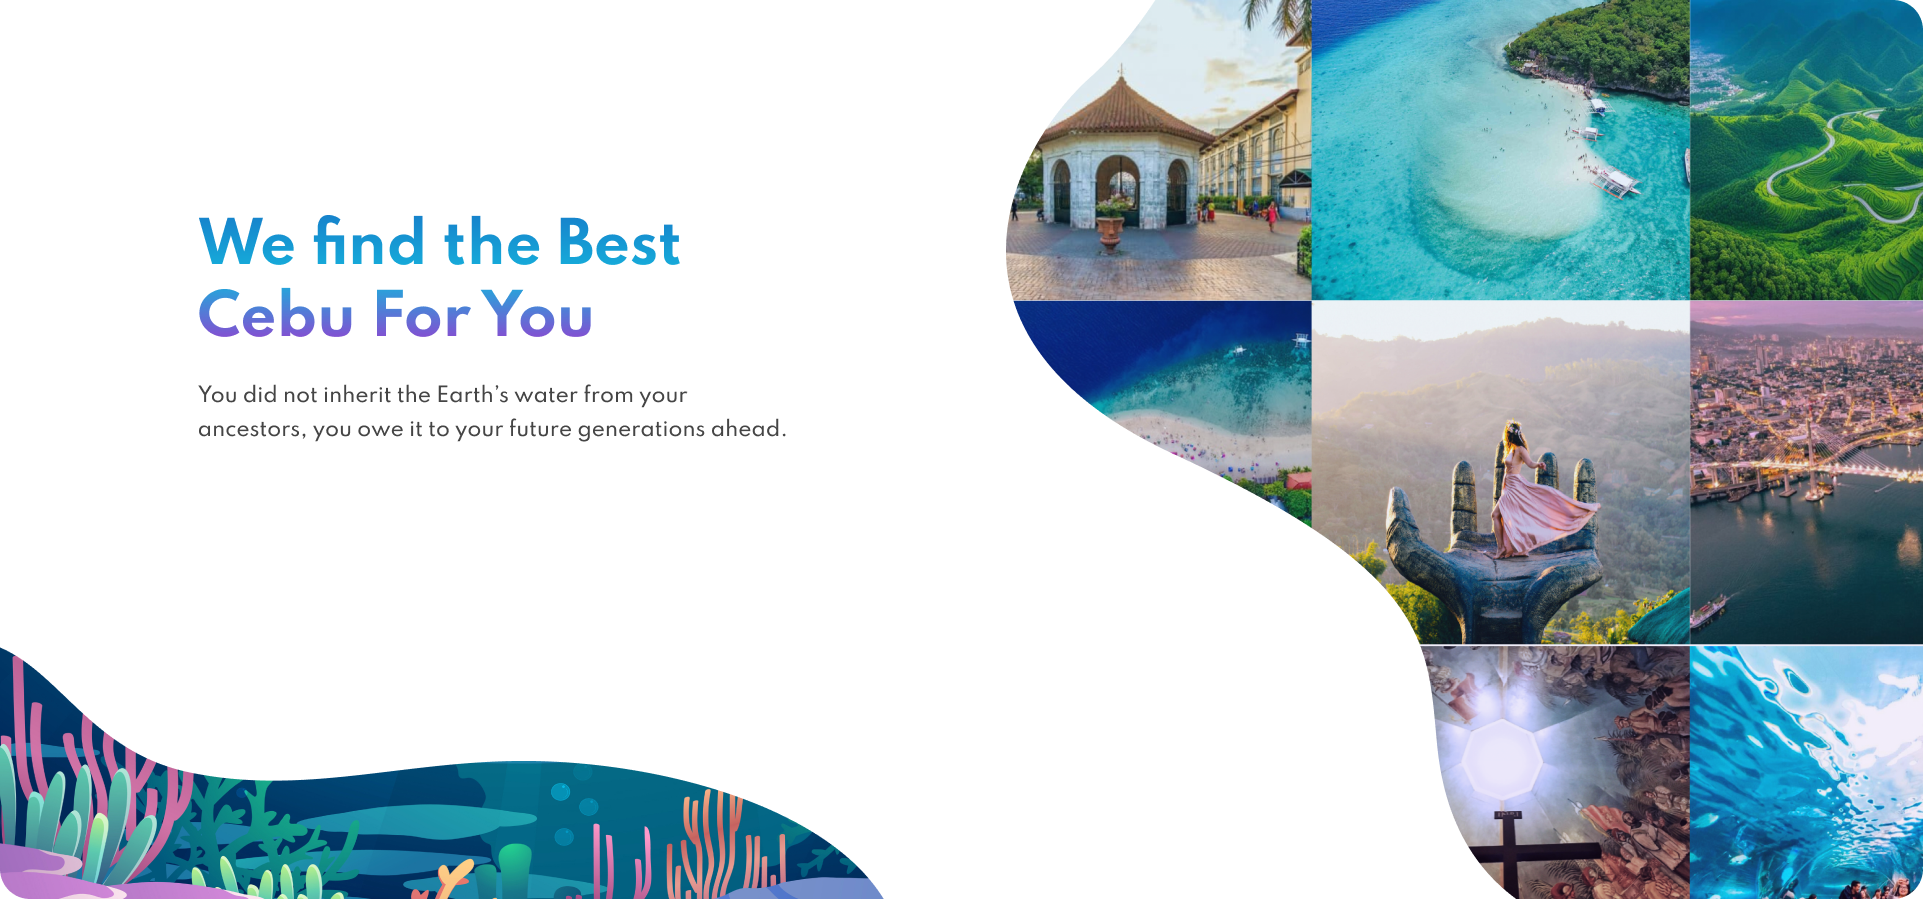
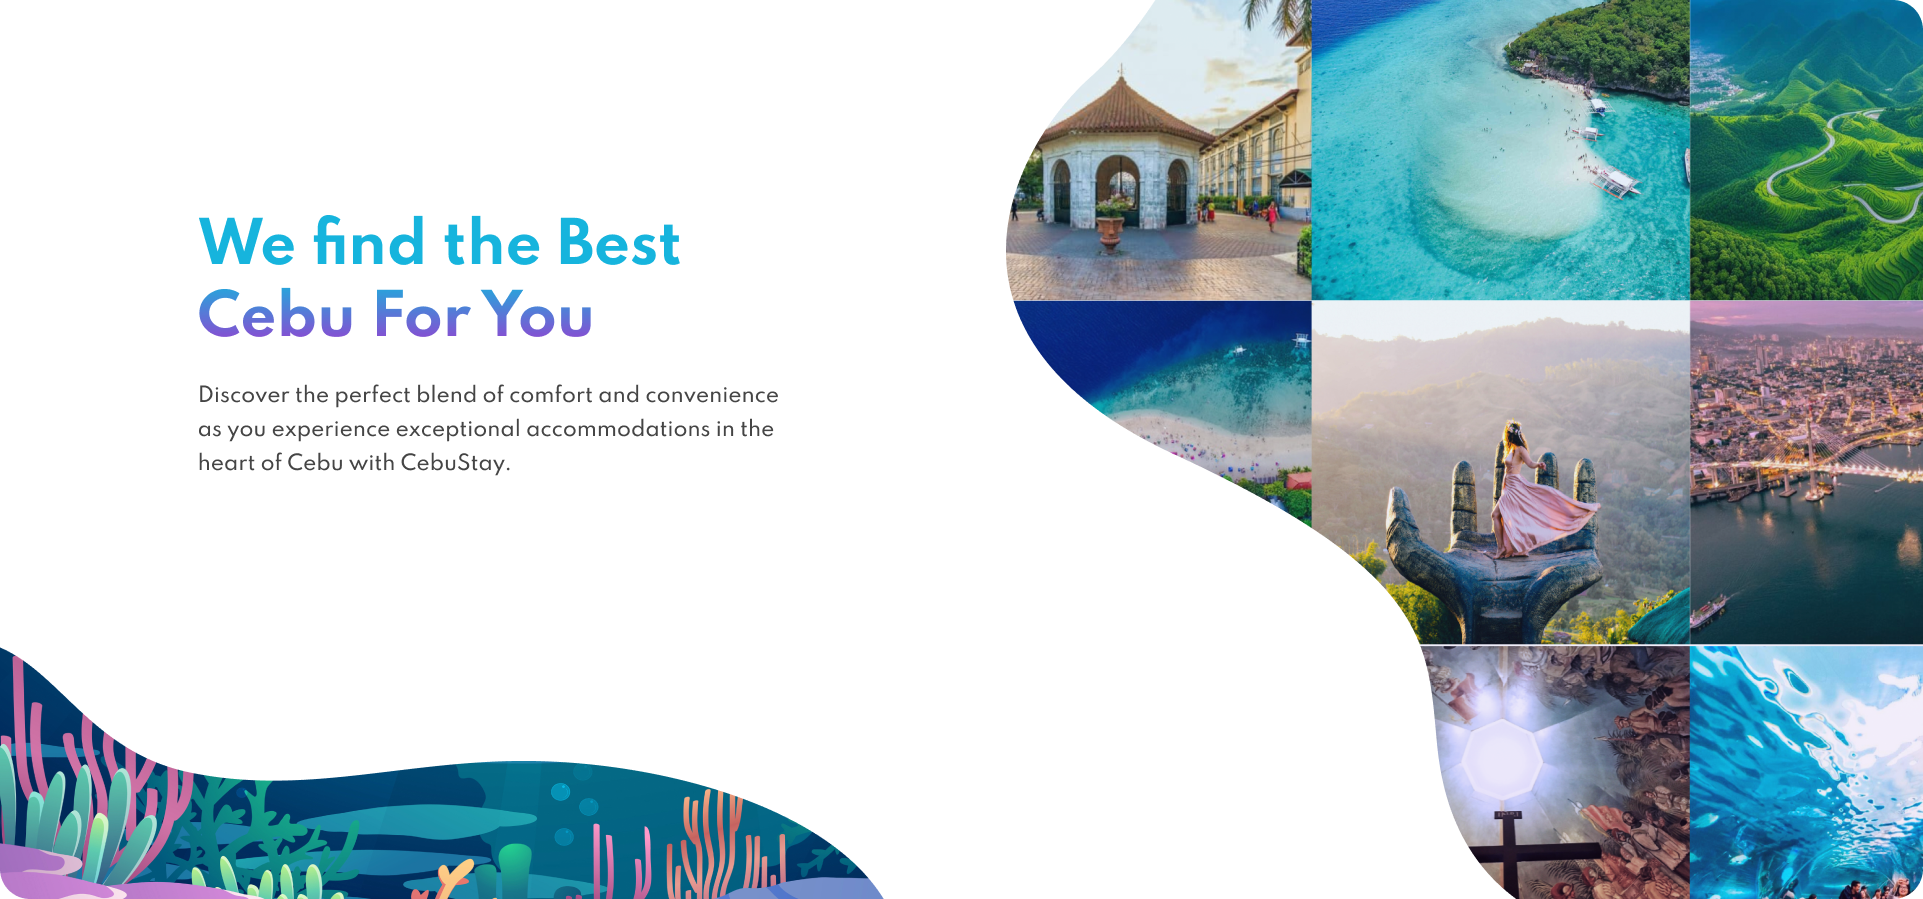
new branch

Changed region(s): [[0.0936, 0.436, 0.4056, 0.5295], [0.0936, 0.2492, 0.3744, 0.2803]]

diff --git a/fe/src/pages/LandingPage/components/LandingCover.js b/fe/src/pages/LandingPage/components/LandingCover.js
@@ -1,15 +1,19 @@
 import React from "react";
 import "./LandingCover.css";
 import PlayCircleOutlinedIcon from "@mui/icons-material/PlayCircleOutlined";
-export default function LandingCover() {
+import { Link } from "react-router-dom";
+export default function LandingCover({ onSeeMapClick }) {
   return (
     <>
       <div className="landing-cover">
         <img src="../../landingscream2.png" alt="landing-cover" />
-        <button className="landing-cover-button">
-          Search and Accommodation
+        <button
+          className="landing-cover-button"
+          onClick={() => (window.location.href = "/accommodation")}
+        >
+          Search An Accommodation
         </button>
-        <button className="landing-cover-button2">
+        <button className="landing-cover-button2" onClick={onSeeMapClick}>
           <PlayCircleOutlinedIcon
             style={{
               marginRight: "5px",
@@ -21,44 +25,59 @@ export default function LandingCover() {
         </button>
       </div>
       <div className="landing-cover-2">
-        <h2>What do have to offer</h2>
+        <h2>What do we have to offer</h2>
         <div className="landing-cover-2-content">
           <div className="landingg">
-            <h4>Header Title</h4>
+            <h4>Local Experience</h4>
             <p>
-              Lorem ipsum dolor sit amet, consectetur adipiscing elit. Sed do
-              eiusmod tempor incididunt ut labore et dolore magna aliqua. Ut
-              enim ad minim veniam, quis nostrud exercitation ullamco laboris
-              nisi ut aliquip ex ea commodo consequat. Duis aute irure dolor in
-              reprehenderit in voluptate velit esse cillum dolore eu fugiat
-              nulla pariatur. Excepteur sint occaecat cupidatat non proident,
-              sunt in culpa qui officia deserunt mollit anim id est laborum.
+              Immerse yourself in the heart of Cebu’s vibrant culture, from
+              bustling street markets to hidden villages. Savor local flavors,
+              engage with friendly locals, and explore beyond the tourist spots.
+              Whether it’s joining a lively fiesta or wandering through historic
+              neighborhoods, Cebu’s authentic charm offers a unique,
+              unforgettable experience.
             </p>
           </div>
           <div className="landingg">
-            <h4>Header Title</h4>
+            <h4>Easy Booking Process</h4>
             <p>
-              Lorem ipsum dolor sit amet, consectetur adipiscing elit. Sed do
-              eiusmod tempor incididunt ut labore et dolore magna aliqua. Ut
-              enim ad minim veniam, quis nostrud exercitation ullamco laboris
-              nisi ut aliquip ex ea commodo consequat. Duis aute irure dolor in
-              reprehenderit in voluptate velit esse cillum dolore eu fugiat
-              nulla pariatur. Excepteur sint occaecat cupidatat non proident,
-              sunt in culpa qui officia deserunt mollit anim id est laborum.
+              Booking your stay in Cebu has never been easier! Our user-friendly
+              platform allows you to search for accommodations effortlessly,
+              compare options, and secure your reservation in just a few clicks.
+              With transparent pricing and instant confirmations, planning your
+              perfect getaway is stress-free. Enjoy the convenience of managing
+              your bookings anytime, anywhere, so you can focus on what truly
+              matters—making unforgettable memories in Cebu!
             </p>
           </div>
           <div className="landingg">
-            <h4>Header Title</h4>
+            <h4>Discover the Wonders of Cebu</h4>
             <p>
-              Lorem ipsum dolor sit amet, consectetur adipiscing elit. Sed do
-              eiusmod tempor incididunt ut labore et dolore magna aliqua. Ut
-              enim ad minim veniam, quis nostrud exercitation ullamco laboris
-              nisi ut aliquip ex ea commodo consequat. Duis aute irure dolor in
-              reprehenderit in voluptate velit esse cillum dolore eu fugiat
-              nulla pariatur. Excepteur sint occaecat cupidatat non proident,
-              sunt in culpa qui officia deserunt mollit anim id est laborum.
+              Embark on an adventure through Cebu’s stunning landscapes and rich
+              history with our interactive map. From pristine beaches and lush
+              mountains to vibrant cities, each experience reveals the island's
+              unique charm. Dive into crystal-clear waters, savor delicious
+              local cuisine, and immerse yourself in the warmth of Cebu’s
+              hospitality. Discover the treasures that make Cebu a must-visit
+              destination!
             </p>
           </div>
+        </div>
+        <div className="landing-cover-2-buttonns">
+          <button className="landing-cover-buttonn1">
+            <Link
+              to="/list-property"
+              style={{ textDecoration: "none", color: "inherit" }}
+            >
+              Become A Host
+            </Link>
+          </button>
+          <button
+            className="landing-cover-buttonn2"
+            onClick={() => (window.location.href = "/accommodation")}
+          >
+            Find A Stay
+          </button>
         </div>
       </div>
     </>

diff --git a/fe/src/pages/LandingPage/components/LandingCover.css b/fe/src/pages/LandingPage/components/LandingCover.css
@@ -61,7 +61,17 @@
     transition: 0.5s;
   }
   
-
+  .landing-cover-2-content > div:nth-child(odd)  {
+    text-align: left; /* Align text for odd children */
+    margin-right: 30%;
+}
+.landingg{
+  width: 40%;
+}
+.landing-cover-2-content > div:nth-child(even) {
+    text-align: right; /* Align text for even children */
+    margin-left: 30%;
+}
   
   /* Media Queries for Mobile Responsiveness */
   @media (max-width: 768px) {
@@ -81,9 +91,31 @@
       transform: translateX(-50%); /* Ensure it's centered */
       margin-left: 5px;
     }
+    .landing-cover-2-buttonns{
+      display: flex;
+      flex-direction: column;
+      /* gap: 10px; */
+      /* padding: 10px; */
+      margin-top: 20px;
+    }
+    .landing-cover-buttonn1{
+      margin-bottom: 10px;
+    }
   }
   
   @media (max-width: 480px) {
+    .landingg{
+      width: 80%;
+  }
+    .landing-cover-2-content > div:nth-child(odd)  {
+      text-align: center; /* Align text for odd children */
+      margin-right: 0px;
+  }
+  
+  .landing-cover-2-content > div:nth-child(even) {
+      text-align: center; /* Align text for even children */
+      margin-left: 0px;
+  }
     .landing-cover-button, .landing-cover-button2 {
       font-size: 2.0vw; /* Further increase font size for very small screens */
       padding: 2vw 3vw;
@@ -99,6 +131,13 @@
       bottom: 25%; 
       left: 55%;   
       transform: translateX(-50%);
+    }
+    .landing-cover-2-buttonns{
+      display: flex;
+      flex-direction: column;
+      gap: 10px;
+      row-gap: 10px;
+      margin-top: 10px;
     }
   }
   
@@ -132,9 +171,7 @@
     display: grid;
     place-items: center;
   }
-.landingg{
-    width: 40%;
-}
+
 .landingg > h4{
     color: #1780CB;
     font-weight: bold;
@@ -144,12 +181,45 @@
     font-size: 80%;
     color: #707070;
 }
-.landing-cover-2-content > div:nth-child(odd)  {
-    text-align: left; /* Align text for odd children */
-    margin-right: 30%;
-}
 
-.landing-cover-2-content > div:nth-child(even) {
-    text-align: right; /* Align text for even children */
-    margin-left: 30%;
+
+.landing-cover-2-buttonns{
+  margin-top: 20px;
+  display: flex;
+  justify-content: center;
+  align-items: center;
+  gap: 20%;
+}
+.landing-cover-buttonn1{
+  width:  275px;
+  border-radius: 50px;
+  border: 2px solid #005281;
+  color: #005281;
+  font-size: 20px;
+}
+.landing-cover-buttonn2{
+  width:  275px;
+  border-radius: 50px;
+  border: 2px solid #005281;
+  color: white;
+  font-size: 20px;
+  background-color: #005281;
+}
+.landing-cover-buttonn1:hover{
+  cursor: pointer;
+  transition: 0.3s;
+  -webkit-box-shadow: 0px 11px 15px 5px rgba(0,0,0,0.44); 
+  box-shadow: 0px 11px 15px 5px rgba(0,0,0,0.44);
+}
+.landing-cover-buttonn1:not(:hover){
+  transition: 0.3s;
+}
+.landing-cover-buttonn2:hover{
+  cursor: pointer;
+  transition: 0.3s;
+  -webkit-box-shadow: 0px 21px 15px 5px rgba(0,0,0,0.44); 
+  box-shadow: 0px 11px 15px 5px rgba(0,0,0,0.44);
+}
+.landing-cover-buttonn2:not(:hover){
+  transition: 0.3s;
 }

diff --git a/fe/src/pages/AccountManagement/components/UserProfile.js b/fe/src/pages/AccountManagement/components/UserProfile.js
@@ -173,18 +173,19 @@ export default function UserProfile({ profile }) {
             className="account-banner-image"
           />
         </div>
-
         <div className="user-details-container">
           <div className="avatar-details-container">
             <div className="avatar-wrapper">
               <img
                 src={
-                  profileImage ||
-                  "https://cdn.pixabay.com/photo/2015/10/05/22/37/blank-profile-picture-973460_960_720.png"
+                  profileImage
+                    ? encodeURI(profileImage.trim()) // Remove extra spaces and encode the URL
+                    : "https://cdn.pixabay.com/photo/2015/10/05/22/37/blank-profile-picture-973460_960_720.png"
                 }
                 alt="Profile Picture"
                 className="avatar-image"
               />
+
               <div className="camera-icon-container">
                 <Tooltip title="Add profile picture">
                   <PhotoCamera

diff --git a/fe/src/pages/LandingPage/LandingPageUI.jsx b/fe/src/pages/LandingPage/LandingPageUI.jsx
@@ -6,22 +6,29 @@ import Footer from './components/Footer';
 import BasicGrid from './components/Land';
 import InteractiveMap from '../../InteractiveMap/InteractiveMap';
 import LandingCover from './components/LandingCover';
+import { useRef } from 'react';
 const LandingPageUI = () => {
+  const mapRef = useRef(null);
+
+  // Function to scroll to the map
+  const scrollToMap = () => {
+    if (mapRef.current) {
+      mapRef.current.scrollIntoView({ behavior: 'smooth' });
+    }
+  };
   return (
-
-
       <>
       <div>
-      <LandingCover/>
+      <LandingCover onSeeMapClick={scrollToMap} />
       {/* <BasicGrid/> */}
-      <InteractiveMap />
+      <div ref={mapRef}>
+        <InteractiveMap  />
+      </div>
       <Popular />
       <Hidden />
       </div>
       <Footer/>
       </>
-      
-   
   );
 };
 

diff --git a/fe/src/InteractiveMap/InteractiveMap.js b/fe/src/InteractiveMap/InteractiveMap.js
@@ -172,7 +172,7 @@ export default function InteractiveMap() {
   };
 
   return (
-    <>
+    <div className="interactive-map">
       <div
         style={{
           alignItems: "center",
@@ -188,7 +188,6 @@ export default function InteractiveMap() {
             textAlign: "center",
             fontWeight: "bold",
             color: "#2A2A2E",
-
           }}
         >
           Explore Cebu, With A Heart
@@ -331,6 +330,6 @@ export default function InteractiveMap() {
           )}
         </div>
       </div>
-    </>
+    </div>
   );
 }
